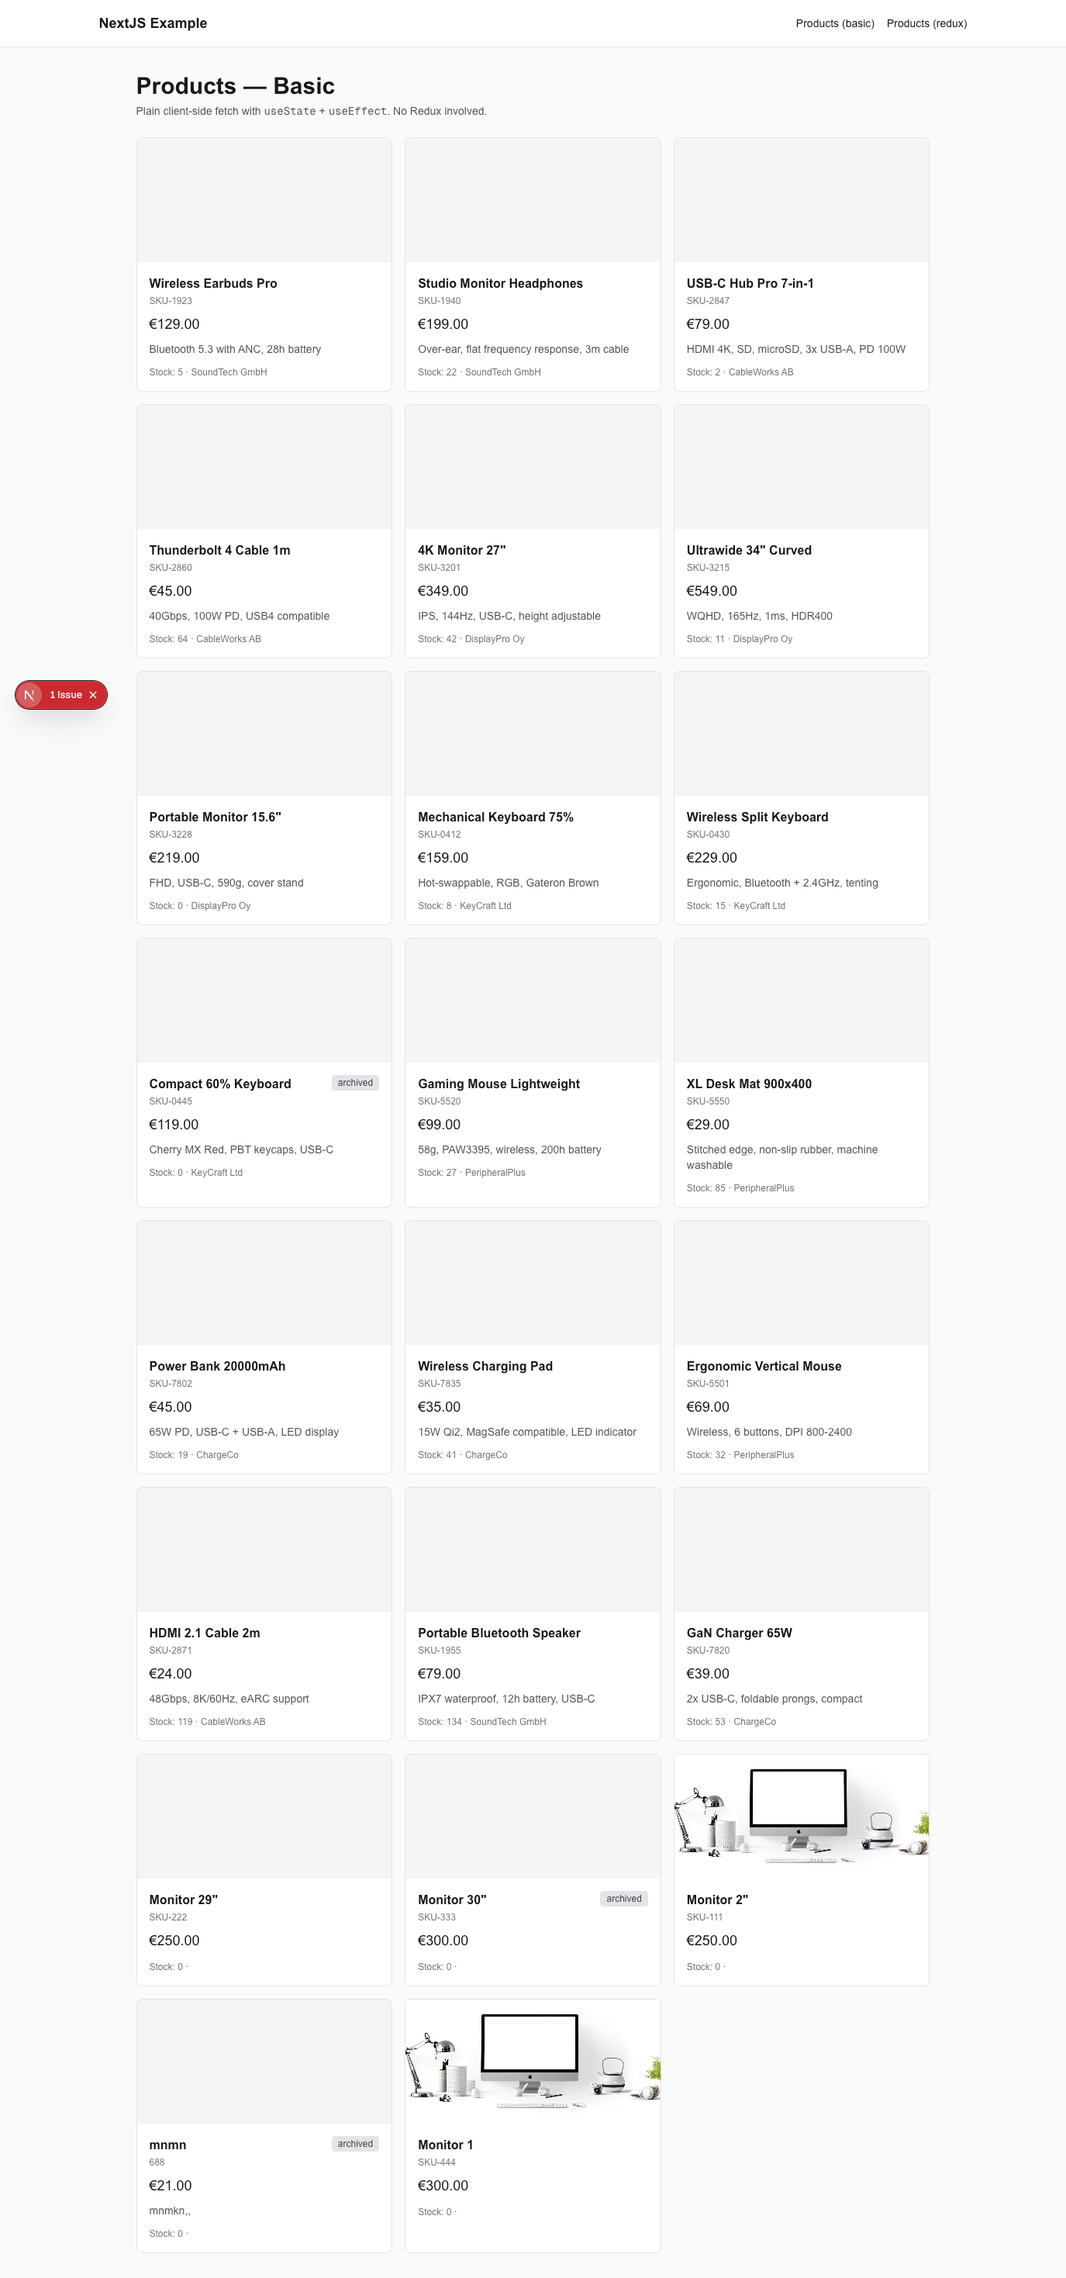
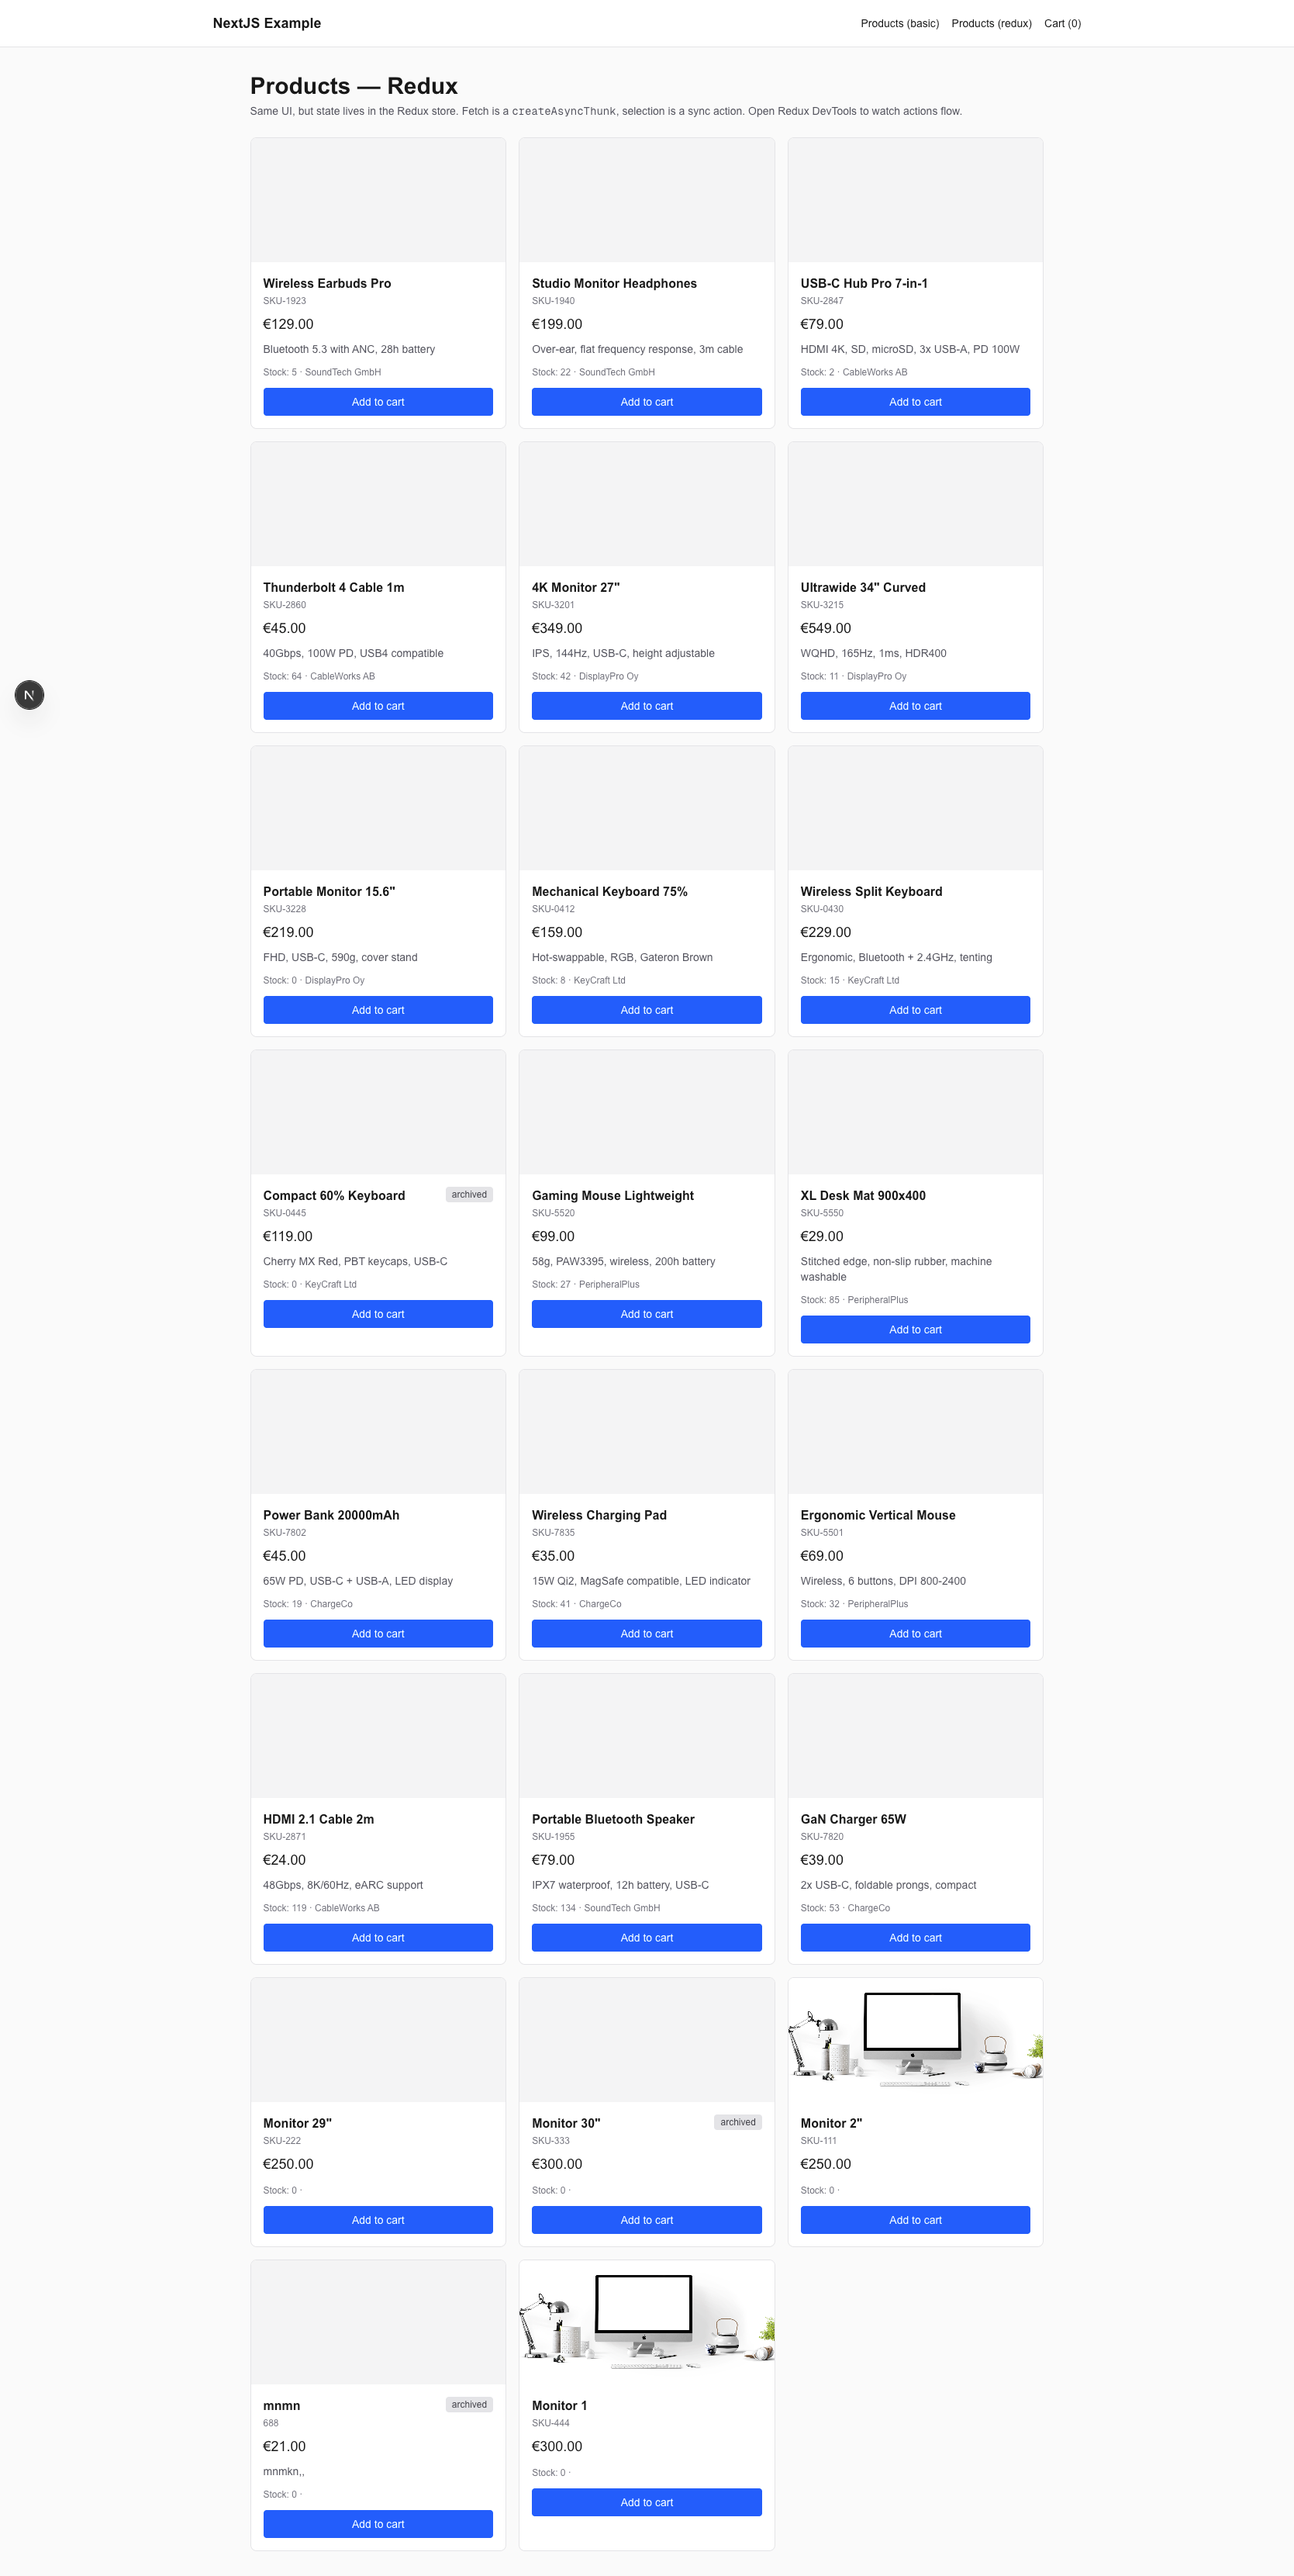
Add checkout flow and cart features

diff --git a/app/cart/page.tsx b/app/cart/page.tsx
@@ -1,0 +1,87 @@
+"use client";
+
+import { useEffect } from "react";
+import { useAppDispatch, useAppSelector } from "@/lib/hooks";
+import {
+  fetchProducts,
+  type Product,
+} from "@/lib/features/products/productsSlice";
+import { selectCartItems, itemRemoved } from "@/lib/features/cart/cartSlice";
+
+export default function CartPage() {
+  const dispatch = useAppDispatch();
+  const items = useAppSelector(selectCartItems);
+  const products = useAppSelector((s) => s.products.items);
+  const productStatus = useAppSelector((s) => s.products.status);
+
+  useEffect(() => {
+    if (productStatus === "idle") dispatch(fetchProducts());
+  }, [productStatus, dispatch]);
+
+  // Join cart items with their product data
+  const lines = items
+    .map((i) => {
+      const product = products.find((p) => p.id === i.productId);
+      return product ? { product, quantity: i.quantity } : null;
+    })
+    .filter((x): x is { product: Product; quantity: number } => x !== null);
+
+  const total = lines.reduce(
+    (sum, l) => sum + Number(l.product.price) * l.quantity,
+    0,
+  );
+
+  async function handleCheckout() {
+    const res = await fetch("/api/checkout", {
+      method: "POST",
+      headers: { "Content-Type": "application/json" },
+      body: JSON.stringify({ items }),
+    });
+    const { url } = await res.json();
+    window.location.href = url; // redirect to Stripe
+  }
+
+  return (
+    <main className="flex-1 p-8">
+      <div className="max-w-2xl mx-auto">
+        <h1 className="text-3xl font-bold mb-6">Cart</h1>
+
+        {lines.length === 0 && <p>Your cart is empty.</p>}
+
+        <ul className="divide-y">
+          {lines.map(({ product, quantity }) => (
+            <li
+              key={product.id}
+              className="flex items-center justify-between py-3"
+            >
+              <div>
+                <p className="font-medium">{product.name}</p>
+                <p className="text-sm text-zinc-500">
+                  €{Number(product.price).toFixed(2)} × {quantity}
+                </p>
+              </div>
+              <button
+                onClick={() => dispatch(itemRemoved(product.id))}
+                className="text-sm text-red-600 hover:underline"
+              >
+                Remove
+              </button>
+            </li>
+          ))}
+        </ul>
+
+        {lines.length > 0 && (
+          <div className="mt-6 flex items-center justify-between">
+            <p className="text-lg font-semibold">Total: €{total.toFixed(2)}</p>
+            <button
+              onClick={handleCheckout}
+              className="rounded bg-blue-600 px-5 py-2 text-white hover:bg-blue-700"
+            >
+              Checkout
+            </button>
+          </div>
+        )}
+      </div>
+    </main>
+  );
+}

diff --git a/app/api/checkout/route.ts b/app/api/checkout/route.ts
@@ -1,0 +1,48 @@
+import Stripe from "stripe";
+
+const stripe = new Stripe(process.env.STRIPE_SECRET_KEY!);
+const siteUrl = process.env.NEXT_PUBLIC_SITE_URL!;
+
+type IncomingItem = { productId: string; quantity: number };
+
+export async function POST(request: Request) {
+  const { items } = (await request.json()) as { items: IncomingItem[] };
+
+  // Look up product data on the server — trust nothing from the client.
+  const supabaseUrl = process.env.SUPABASE_URL!;
+  const supabaseAnonKey = process.env.SUPABASE_ANON_KEY!;
+  const productsRes = await fetch(`${supabaseUrl}/rest/v1/products`, {
+    headers: {
+      Authorization: `Bearer ${supabaseAnonKey}`,
+      apikey: supabaseAnonKey,
+    },
+  });
+  const products = (await productsRes.json()) as Array<{
+    id: string;
+    name: string;
+    price: string; // numeric-as-string from Supabase
+  }>;
+
+  const line_items = items.map((i) => {
+    const product = products.find((p) => p.id === i.productId);
+    if (!product) throw new Error(`Unknown product ${i.productId}`);
+    return {
+      price_data: {
+        currency: "eur",
+        product_data: { name: product.name },
+        // Stripe expects the smallest currency unit (cents).
+        unit_amount: Math.round(Number(product.price) * 100),
+      },
+      quantity: i.quantity,
+    };
+  });
+
+  const session = await stripe.checkout.sessions.create({
+    mode: "payment",
+    line_items,
+    success_url: `${siteUrl}/checkout/success?session_id={CHECKOUT_SESSION_ID}`,
+    cancel_url: `${siteUrl}/checkout/cancel`,
+  });
+
+  return Response.json({ url: session.url });
+}

diff --git a/app/products/redux/page.tsx b/app/products/redux/page.tsx
@@ -7,6 +7,7 @@ import {
   productSelected,
   type Product,
 } from "@/lib/features/products/productsSlice";
+import { itemAdded } from "../../../lib/features/cart/cartSlice";
 
 export default function ProductsReduxPage() {
   const dispatch = useAppDispatch();
@@ -43,6 +44,7 @@ export default function ProductsReduxPage() {
                 product={product}
                 selected={product.id === selectedId}
                 onSelect={() => dispatch(productSelected(product.id))}
+                onAddToCart={() => dispatch(itemAdded(product.id))}
               />
             ))}
           </ul>
@@ -56,10 +58,12 @@ function ProductCard({
   product,
   selected,
   onSelect,
+  onAddToCart,
 }: {
   product: Product;
   selected: boolean;
   onSelect: () => void;
+  onAddToCart: () => void;
 }) {
   return (
     <li
@@ -105,6 +109,15 @@ function ProductCard({
         <p className="mt-3 text-xs text-zinc-500">
           Stock: {product.stock_quantity} · {product.supplier}
         </p>
+        <button
+          onClick={(e) => {
+            e.stopPropagation();
+            onAddToCart();
+          }}
+          className="mt-3 w-full rounded bg-blue-600 px-3 py-2 text-sm text-white hover:bg-blue-700"
+        >
+          Add to cart
+        </button>
       </div>
     </li>
   );

diff --git a/app/components/Header.tsx b/app/components/Header.tsx
@@ -15,9 +15,14 @@
 // };
 // export default Header;
 
+"use client";
+
 import Link from "next/link";
+import { useAppSelector } from "@/lib/hooks";
+import { selectCartCount } from "@/lib/features/cart/cartSlice";
 
 const Header = () => {
+  const count = useAppSelector(selectCartCount);
   return (
     <header className="border-b border-zinc-200 dark:border-zinc-800 bg-white dark:bg-zinc-950">
       <div className="max-w-6xl mx-auto flex items-center justify-between p-4">
@@ -25,17 +30,14 @@ const Header = () => {
           NextJS Example
         </Link>
         <nav className="flex items-center gap-4 text-sm">
-          <Link
-            href="/products/basic"
-            className="hover:text-blue-600 transition"
-          >
+          <Link href="/products/basic" className="hover:text-blue-600">
             Products (basic)
           </Link>
-          <Link
-            href="/products/redux"
-            className="hover:text-blue-600 transition"
-          >
+          <Link href="/products/redux" className="hover:text-blue-600">
             Products (redux)
+          </Link>
+          <Link href="/cart" className="hover:text-blue-600">
+            Cart ({count})
           </Link>
         </nav>
       </div>

diff --git a/lib/features/cart/cartSlice.ts b/lib/features/cart/cartSlice.ts
@@ -1,0 +1,42 @@
+import { createSlice, type PayloadAction } from "@reduxjs/toolkit";
+import type { RootState } from "../../store";
+
+export type CartItem = {
+  productId: string;
+  quantity: number;
+};
+
+type CartState = {
+  items: CartItem[];
+};
+
+const initialState: CartState = { items: [] };
+
+const cartSlice = createSlice({
+  name: "cart",
+  initialState,
+  reducers: {
+    itemAdded(state, action: PayloadAction<string>) {
+      const existing = state.items.find((i) => i.productId === action.payload);
+      if (existing) {
+        existing.quantity += 1;
+      } else {
+        state.items.push({ productId: action.payload, quantity: 1 });
+      }
+    },
+    itemRemoved(state, action: PayloadAction<string>) {
+      state.items = state.items.filter((i) => i.productId !== action.payload);
+    },
+    cartCleared(state) {
+      state.items = [];
+    },
+  },
+});
+
+// Selectors — keep "derived data" out of the slice itself.
+export const selectCartItems = (s: RootState) => s.cart.items;
+export const selectCartCount = (s: RootState) =>
+  s.cart.items.reduce((n, i) => n + i.quantity, 0);
+
+export const { itemAdded, itemRemoved, cartCleared } = cartSlice.actions;
+export default cartSlice.reducer;

diff --git a/app/api/stripe/webhook/route.ts b/app/api/stripe/webhook/route.ts
@@ -1,0 +1,31 @@
+import Stripe from "stripe";
+
+const stripe = new Stripe(process.env.STRIPE_SECRET_KEY!);
+const webhookSecret = process.env.STRIPE_WEBHOOK_SECRET!;
+
+export async function POST(request: Request) {
+  const body = await request.text(); // must be the raw body for signature check
+  const signature = request.headers.get("stripe-signature") ?? "";
+
+  let event: Stripe.Event;
+  try {
+    event = stripe.webhooks.constructEvent(body, signature, webhookSecret);
+  } catch (err) {
+    return new Response(`Bad signature: ${(err as Error).message}`, {
+      status: 400,
+    });
+  }
+
+  if (event.type === "checkout.session.completed") {
+    const session = event.data.object as Stripe.Checkout.Session;
+    // ── This is where a real app saves an Order row to the DB. ──
+    // For the demo we just log it.
+    console.log("[stripe] paid", {
+      id: session.id,
+      amount_total: session.amount_total,
+      customer_email: session.customer_details?.email,
+    });
+  }
+
+  return new Response("ok");
+}

diff --git a/app/checkout/success/page.tsx b/app/checkout/success/page.tsx
@@ -1,0 +1,19 @@
+import { cartCleared } from "@/lib/features/cart/cartSlice";
+import SuccessClient from "./SuccessClient";
+
+export default async function SuccessPage({
+  searchParams,
+}: {
+  searchParams: Promise<{ session_id?: string }>;
+}) {
+  const { session_id } = await searchParams;
+  return (
+    <main className="flex-1 p-8 text-center">
+      <h1 className="text-3xl font-bold mb-2">Thanks!</h1>
+      <p className="text-sm text-zinc-500">
+        Session id: {session_id ?? "(none)"}
+      </p>
+      <SuccessClient />
+    </main>
+  );
+}

diff --git a/lib/store.ts b/lib/store.ts
@@ -1,11 +1,13 @@
 import { configureStore } from "@reduxjs/toolkit";
 import productsReducer from "../lib/features/products/productsSlice";
+import cartReducer from "../lib/features/cart/cartSlice";
 
 export const makeStore = () => {
   return configureStore({
     reducer: {
       //the store
       products: productsReducer,
+      cart: cartReducer,
       // future slices go here: cart, user, filters...
     },
   });

diff --git a/app/checkout/success/SuccessClient.tsx b/app/checkout/success/SuccessClient.tsx
@@ -1,0 +1,13 @@
+"use client";
+
+import { useEffect } from "react";
+import { useAppDispatch } from "@/lib/hooks";
+import { cartCleared } from "@/lib/features/cart/cartSlice";
+
+export default function SuccessClient() {
+  const dispatch = useAppDispatch();
+  useEffect(() => {
+    dispatch(cartCleared());
+  }, [dispatch]);
+  return null;
+}

diff --git a/app/checkout/cancel/page.tsx b/app/checkout/cancel/page.tsx
@@ -1,0 +1,8 @@
+export default function CancelPage() {
+  return (
+    <main className="flex-1 p-8 text-center">
+      <h1 className="text-3xl font-bold mb-2">Payment cancelled</h1>
+      <p>No charge was made. Your cart is still here.</p>
+    </main>
+  );
+}

diff --git a/README.md b/README.md
@@ -42,11 +42,13 @@ npm install
 
 2. Start the development server:
 
+directory:desctop/react-repot/nextjs/next-example
+
 ```bash
 npm run dev
 ```
 
-3. Open [http://localhost:3000](http://localhost:3000) in your browser.
+3. Open [http://localhost:3001](http://localhost:3001) in your browser.
 
 You can edit the main page in `app/page.tsx`. Changes are applied automatically.
 
@@ -92,6 +94,8 @@ This project includes a **Redux store** implementation using `@reduxjs/toolkit` 
 Products Page:
 ![Products Page](public/nextjs-example-peach.vercel.app_products.png)
 
+Redux Products Page:
+![ Products Page](public/localhost_3001_products_basic.png)
 Redux Products Page:
 ![Redux Products Page](public/localhost_3001_products_redux.png)
 
